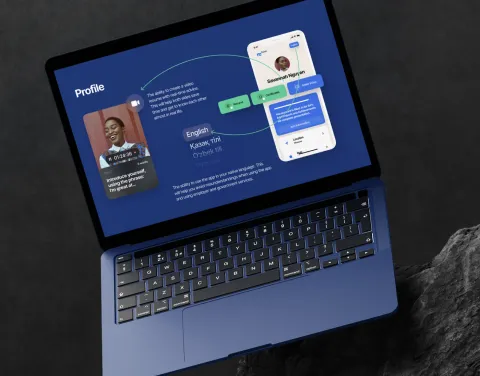
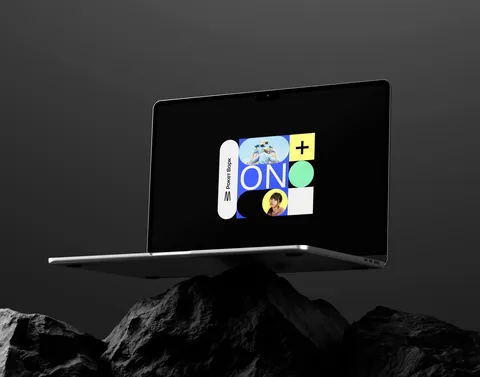
Rocket Work: новое превью; Squad Gaming: без «спроектирован»
Превью Rocket Work заменено на макбук с постером ON — оно же идёт
в карточку «Избранных проектов», в hover-кадр на главной и в OG-картинку
кейса (пути те же, поэтому подхватывается везде сразу).

Squad Gaming: «Спроектирован мобильный продукт и собран UI Kit» →
«Для мобильного продукта собран UI Kit» (и EN).

diff --git a/projects/06.html b/projects/06.html
@@ -21,7 +21,7 @@
 <section class="pcase__full pcase__head"><a class="pcase__back" href="../portfolio.html"><span class="a" aria-hidden="true">←</span> <span data-i18n="ui.all">Все проекты</span></a>
 <div class="pcase__topgrid"><h1 class="pcase__title" data-i18n="p.title">Squad Gaming</h1>
 <div class="pcase__facts"><div class="pcase__f"><div class="l" data-i18n="f.client">Клиент</div><div class="v" data-i18n="p.client">Squad</div></div><div class="pcase__f"><div class="l" data-i18n="f.year">Год</div><div class="v">2023</div></div><div class="pcase__f"><div class="l" data-i18n="f.role">Роль</div><div class="v" data-i18n="p.role">Ведущий дизайнер</div></div><div class="pcase__f pcase__f--m"><div class="l" data-i18n="p.m1.l">фреймов в брендбуке</div><div class="v" data-i18n="p.m1.v">87</div></div><div class="pcase__f pcase__f--m"><div class="l" data-i18n="p.m2.l">формата маскота</div><div class="v" data-i18n="p.m2.v">2</div></div><div class="pcase__f pcase__f--m"><div class="l" data-i18n="p.m3.l">UI Kit платформы</div><div class="v" data-i18n="p.m3.v">1</div></div></div></div></section>
-<section class="pcase__full pcase__about" data-reveal><p class="pcase__lead" data-i18n="p.lead">Визуальная вселенная Play-to-Earn-платформы — от бренда до продукта.</p><div class="pcase__prose"><p data-i18n="p.ov">Squad Gaming — из тех редких проектов, что оставляют след. Как ведущий дизайнер я участвовал во всём: от первых концепций до финальной реализации платформы.</p><p data-i18n="p.ta">Хотелось не просто оформить продукт, а создать айдентику, где каждый элемент продуман и эстетически, и по смыслу — и работает на характер всего бренда.</p><p data-i18n="p.so">Я собрал брендбук на 87 фреймов — графика, принципы, цветовая система и коммуникации. В центре — фирменный персонаж, который живёт и как вектор-логотип, и как полноценный 3D-маскот.</p><p data-i18n="p.re">Сложилась цельная вселенная бренда с правилами масштабирования интерфейсов, видеоконтентом и собственным мобильным приложением.</p></div><div class="pcase__facts3"><ul class="proof__facts"><li data-i18n="p.f1">Брендбук: графика, принципы, цветовая система, коммуникации.</li><li data-i18n="p.f2">Фирменный маскот в двух форматах: вектор-логотип и 3D.</li><li data-i18n="p.f3">Спроектирован мобильный продукт и собран UI Kit.</li><li data-i18n="p.f4">Заданы правила масштабирования интерфейсов.</li></ul></div></section>
+<section class="pcase__full pcase__about" data-reveal><p class="pcase__lead" data-i18n="p.lead">Визуальная вселенная Play-to-Earn-платформы — от бренда до продукта.</p><div class="pcase__prose"><p data-i18n="p.ov">Squad Gaming — из тех редких проектов, что оставляют след. Как ведущий дизайнер я участвовал во всём: от первых концепций до финальной реализации платформы.</p><p data-i18n="p.ta">Хотелось не просто оформить продукт, а создать айдентику, где каждый элемент продуман и эстетически, и по смыслу — и работает на характер всего бренда.</p><p data-i18n="p.so">Я собрал брендбук на 87 фреймов — графика, принципы, цветовая система и коммуникации. В центре — фирменный персонаж, который живёт и как вектор-логотип, и как полноценный 3D-маскот.</p><p data-i18n="p.re">Сложилась цельная вселенная бренда с правилами масштабирования интерфейсов, видеоконтентом и собственным мобильным приложением.</p></div><div class="pcase__facts3"><ul class="proof__facts"><li data-i18n="p.f1">Брендбук: графика, принципы, цветовая система, коммуникации.</li><li data-i18n="p.f2">Фирменный маскот в двух форматах: вектор-логотип и 3D.</li><li data-i18n="p.f3">Для мобильного продукта собран UI Kit.</li><li data-i18n="p.f4">Заданы правила масштабирования интерфейсов.</li></ul></div></section>
 <section class="pcase__full pcase__media">
     <img src="../assets/img/squad-1.webp" srcset="../assets/img/squad-1-480.webp 480w, ../assets/img/squad-1-960.webp 960w, ../assets/img/squad-1-1440.webp 1440w, ../assets/img/squad-1.webp 1920w" sizes="100vw" alt="Squad Gaming — гайд по фирменному стилю: логотип, персонажи, палитра, графика" width="1920" height="940" decoding="async" loading="lazy">
     <div class="row"><img src="../assets/img/squad-2.webp" srcset="../assets/img/squad-2-480.webp 480w, ../assets/img/squad-2.webp 940w" sizes="(max-width: 860px) 100vw, 48vw" alt="Squad Gaming — экран приложения: ставка в аукционе с 3D-персонажем" width="940" height="940" decoding="async" loading="lazy"><img src="../assets/img/squad-3.webp" srcset="../assets/img/squad-3-480.webp 480w, ../assets/img/squad-3.webp 940w" sizes="(max-width: 860px) 100vw, 48vw" alt="Squad Gaming — яркая градиентная 3D-абстракция бренда" width="940" height="940" decoding="async" loading="lazy"></div>
@@ -31,4 +31,4 @@
 <a class="next-proj" href="07.html"><div class="pcase__full"><span class="eyebrow"><span data-i18n="ui.next">Следующий проект</span> · 07</span><div class="nt"><span data-i18n="ui.nextTitle">Маркетинг-кит</span></div></div></a>
 </main>
 <footer class="foot"><div data-i18n="ft.copy">© 2026 Сергей Лукин</div><button class="ft-top" type="button" id="footTop" data-i18n="ft.top">Наверх <span class="arr">↑</span></button><div data-i18n="ft.tag">Портфолио</div></footer>
-<script id="i18n-data" type="application/json">{"ru":{"skip":"Перейти к&nbsp;содержанию","meta.title":"Squad Gaming · Сергей Лукин","meta.description":"Визуальная вселенная Play-to-Earn-платформы — от бренда до продукта.","p.m1.v":"87","p.m1.l":"фреймов в брендбуке","p.m2.v":"2","p.m2.l":"формата маскота","p.m3.v":"1","p.m3.l":"UI Kit платформы","nav.brand":"Сергей Лукин <b>·</b> <span>Head of Design</span>","nav.manifesto":"Манифест","nav.pf":"Портфолио","nav.about":"Обо мне","ft.copy":"© 2026 Сергей Лукин","ft.top":"Наверх <span class=\"arr\">↑</span>","ft.tag":"Портфолио","f.client":"Клиент","f.year":"Год","f.role":"Роль","ui.all":"Все проекты","ui.next":"Следующий проект","p.title":"Squad Gaming","p.lead":"Визуальная вселенная Play-to-Earn-платформы — от бренда до продукта.","p.ov":"Squad Gaming — из тех редких проектов, что оставляют след. Как ведущий дизайнер я участвовал во всём: от первых концепций до финальной реализации платформы.","p.ta":"Хотелось не просто оформить продукт, а создать айдентику, где каждый элемент продуман и эстетически, и по смыслу — и работает на характер всего бренда.","p.so":"Я собрал брендбук на 87 фреймов — графика, принципы, цветовая система и коммуникации. В центре — фирменный персонаж, который живёт и как вектор-логотип, и как полноценный 3D-маскот.","p.re":"Сложилась цельная вселенная бренда с правилами масштабирования интерфейсов, видеоконтентом и собственным мобильным приложением.","p.client":"Squad","p.role":"Ведущий дизайнер","ui.nextTitle":"Маркетинг-кит","p.f1":"Брендбук: графика, принципы, цветовая система, коммуникации.","p.f2":"Фирменный маскот в двух форматах: вектор-логотип и 3D.","p.f3":"Спроектирован мобильный продукт и собран UI Kit.","p.f4":"Заданы правила масштабирования интерфейсов."},"en":{"skip":"Skip to content","meta.title":"Squad Gaming · Sergey Lukin","meta.description":"The visual universe of a play-to-earn platform — from brand to product.","p.m1.v":"87","p.m1.l":"frames in the brandbook","p.m2.v":"2","p.m2.l":"mascot formats","p.m3.v":"1","p.m3.l":"platform UI Kit","nav.brand":"Sergey Lukin <b>·</b> <span>Head of Design</span>","nav.manifesto":"Manifesto","nav.pf":"Portfolio","nav.about":"About","ft.copy":"© 2026 Sergey Lukin","ft.top":"Top <span class=\"arr\">↑</span>","ft.tag":"Portfolio","f.client":"Client","f.year":"Year","f.role":"Role","ui.all":"All projects","ui.next":"Next project","p.title":"Squad Gaming","p.lead":"The visual universe of a Play-to-Earn platform — from brand to product.","p.ov":"Squad Gaming is one of those rare projects that leave a mark. As lead designer I was involved in everything — from the first concepts to the platform's final build.","p.ta":"I didn't just want to dress up the product, but to create an identity where every element is considered both aesthetically and in meaning — working for the character of the whole brand.","p.so":"I built an 87-frame brandbook — graphics, principles, colour system and communications. At its centre is a mascot that lives both as a vector logo and as a full 3D character.","p.re":"The result is a coherent brand universe with interface-scaling rules, video content and its own mobile app.","p.client":"Squad","p.role":"Lead designer","ui.nextTitle":"Marketing Kit","p.f1":"Brandbook: graphics, principles, colour system, communications.","p.f2":"A mascot in two forms: vector logo and 3D.","p.f3":"Designed a mobile product and assembled a UI Kit.","p.f4":"Defined rules for scaling the interfaces."}}</script><script defer src="../assets/lenis.min.js?v=188"></script><script defer src="../assets/smooth-scroll.min.js?v=188"></script><script defer src="../assets/i18n.min.js?v=188"></script><script defer src="../assets/site.min.js?v=188"></script></body></html>
+<script id="i18n-data" type="application/json">{"ru":{"skip":"Перейти к&nbsp;содержанию","meta.title":"Squad Gaming · Сергей Лукин","meta.description":"Визуальная вселенная Play-to-Earn-платформы — от бренда до продукта.","p.m1.v":"87","p.m1.l":"фреймов в брендбуке","p.m2.v":"2","p.m2.l":"формата маскота","p.m3.v":"1","p.m3.l":"UI Kit платформы","nav.brand":"Сергей Лукин <b>·</b> <span>Head of Design</span>","nav.manifesto":"Манифест","nav.pf":"Портфолио","nav.about":"Обо мне","ft.copy":"© 2026 Сергей Лукин","ft.top":"Наверх <span class=\"arr\">↑</span>","ft.tag":"Портфолио","f.client":"Клиент","f.year":"Год","f.role":"Роль","ui.all":"Все проекты","ui.next":"Следующий проект","p.title":"Squad Gaming","p.lead":"Визуальная вселенная Play-to-Earn-платформы — от бренда до продукта.","p.ov":"Squad Gaming — из тех редких проектов, что оставляют след. Как ведущий дизайнер я участвовал во всём: от первых концепций до финальной реализации платформы.","p.ta":"Хотелось не просто оформить продукт, а создать айдентику, где каждый элемент продуман и эстетически, и по смыслу — и работает на характер всего бренда.","p.so":"Я собрал брендбук на 87 фреймов — графика, принципы, цветовая система и коммуникации. В центре — фирменный персонаж, который живёт и как вектор-логотип, и как полноценный 3D-маскот.","p.re":"Сложилась цельная вселенная бренда с правилами масштабирования интерфейсов, видеоконтентом и собственным мобильным приложением.","p.client":"Squad","p.role":"Ведущий дизайнер","ui.nextTitle":"Маркетинг-кит","p.f1":"Брендбук: графика, принципы, цветовая система, коммуникации.","p.f2":"Фирменный маскот в двух форматах: вектор-логотип и 3D.","p.f3":"Для мобильного продукта собран UI Kit.","p.f4":"Заданы правила масштабирования интерфейсов."},"en":{"skip":"Skip to content","meta.title":"Squad Gaming · Sergey Lukin","meta.description":"The visual universe of a play-to-earn platform — from brand to product.","p.m1.v":"87","p.m1.l":"frames in the brandbook","p.m2.v":"2","p.m2.l":"mascot formats","p.m3.v":"1","p.m3.l":"platform UI Kit","nav.brand":"Sergey Lukin <b>·</b> <span>Head of Design</span>","nav.manifesto":"Manifesto","nav.pf":"Portfolio","nav.about":"About","ft.copy":"© 2026 Sergey Lukin","ft.top":"Top <span class=\"arr\">↑</span>","ft.tag":"Portfolio","f.client":"Client","f.year":"Year","f.role":"Role","ui.all":"All projects","ui.next":"Next project","p.title":"Squad Gaming","p.lead":"The visual universe of a Play-to-Earn platform — from brand to product.","p.ov":"Squad Gaming is one of those rare projects that leave a mark. As lead designer I was involved in everything — from the first concepts to the platform's final build.","p.ta":"I didn't just want to dress up the product, but to create an identity where every element is considered both aesthetically and in meaning — working for the character of the whole brand.","p.so":"I built an 87-frame brandbook — graphics, principles, colour system and communications. At its centre is a mascot that lives both as a vector logo and as a full 3D character.","p.re":"The result is a coherent brand universe with interface-scaling rules, video content and its own mobile app.","p.client":"Squad","p.role":"Lead designer","ui.nextTitle":"Marketing Kit","p.f1":"Brandbook: graphics, principles, colour system, communications.","p.f2":"A mascot in two forms: vector logo and 3D.","p.f3":"A UI Kit assembled for the mobile product.","p.f4":"Defined rules for scaling the interfaces."}}</script><script defer src="../assets/lenis.min.js?v=188"></script><script defer src="../assets/smooth-scroll.min.js?v=188"></script><script defer src="../assets/i18n.min.js?v=188"></script><script defer src="../assets/site.min.js?v=188"></script></body></html>

diff --git a/en/projects/06.html b/en/projects/06.html
@@ -20,7 +20,7 @@
 <section class="pcase__full pcase__head"><a class="pcase__back" href="../portfolio.html"><span class="a" aria-hidden="true">←</span> <span data-i18n="ui.all">All projects</span></a>
 <div class="pcase__topgrid"><h1 class="pcase__title" data-i18n="p.title">Squad Gaming</h1>
 <div class="pcase__facts"><div class="pcase__f"><div class="l" data-i18n="f.client">Client</div><div class="v" data-i18n="p.client">Squad</div></div><div class="pcase__f"><div class="l" data-i18n="f.year">Year</div><div class="v">2023</div></div><div class="pcase__f"><div class="l" data-i18n="f.role">Role</div><div class="v" data-i18n="p.role">Lead designer</div></div><div class="pcase__f pcase__f--m"><div class="l" data-i18n="p.m1.l">frames in the brandbook</div><div class="v" data-i18n="p.m1.v">87</div></div><div class="pcase__f pcase__f--m"><div class="l" data-i18n="p.m2.l">mascot formats</div><div class="v" data-i18n="p.m2.v">2</div></div><div class="pcase__f pcase__f--m"><div class="l" data-i18n="p.m3.l">platform UI Kit</div><div class="v" data-i18n="p.m3.v">1</div></div></div></div></section>
-<section class="pcase__full pcase__about" data-reveal=""><p class="pcase__lead" data-i18n="p.lead">The visual universe of a Play-to-Earn platform — from brand to product.</p><div class="pcase__prose"><p data-i18n="p.ov">Squad Gaming is one of those rare projects that leave a mark. As lead designer I was involved in everything — from the first concepts to the platform's final build.</p><p data-i18n="p.ta">I didn't just want to dress up the product, but to create an identity where every element is considered both aesthetically and in meaning — working for the character of the whole brand.</p><p data-i18n="p.so">I built an 87-frame brandbook — graphics, principles, colour system and communications. At its centre is a mascot that lives both as a vector logo and as a full 3D character.</p><p data-i18n="p.re">The result is a coherent brand universe with interface-scaling rules, video content and its own mobile app.</p></div><div class="pcase__facts3"><ul class="proof__facts"><li data-i18n="p.f1">Brandbook: graphics, principles, colour system, communications.</li><li data-i18n="p.f2">A mascot in two forms: vector logo and 3D.</li><li data-i18n="p.f3">Designed a mobile product and assembled a UI Kit.</li><li data-i18n="p.f4">Defined rules for scaling the interfaces.</li></ul></div></section>
+<section class="pcase__full pcase__about" data-reveal=""><p class="pcase__lead" data-i18n="p.lead">The visual universe of a Play-to-Earn platform — from brand to product.</p><div class="pcase__prose"><p data-i18n="p.ov">Squad Gaming is one of those rare projects that leave a mark. As lead designer I was involved in everything — from the first concepts to the platform's final build.</p><p data-i18n="p.ta">I didn't just want to dress up the product, but to create an identity where every element is considered both aesthetically and in meaning — working for the character of the whole brand.</p><p data-i18n="p.so">I built an 87-frame brandbook — graphics, principles, colour system and communications. At its centre is a mascot that lives both as a vector logo and as a full 3D character.</p><p data-i18n="p.re">The result is a coherent brand universe with interface-scaling rules, video content and its own mobile app.</p></div><div class="pcase__facts3"><ul class="proof__facts"><li data-i18n="p.f1">Brandbook: graphics, principles, colour system, communications.</li><li data-i18n="p.f2">A mascot in two forms: vector logo and 3D.</li><li data-i18n="p.f3">A UI Kit assembled for the mobile product.</li><li data-i18n="p.f4">Defined rules for scaling the interfaces.</li></ul></div></section>
 <section class="pcase__full pcase__media">
     <img src="../../assets/img/squad-1.webp" srcset="../../assets/img/squad-1-480.webp 480w, ../../assets/img/squad-1-960.webp 960w, ../../assets/img/squad-1-1440.webp 1440w, ../../assets/img/squad-1.webp 1920w" sizes="100vw" alt="Squad Gaming — гайд по фирменному стилю: логотип, персонажи, палитра, графика" width="1920" height="940" decoding="async" loading="lazy">
     <div class="row"><img src="../../assets/img/squad-2.webp" srcset="../../assets/img/squad-2-480.webp 480w, ../../assets/img/squad-2.webp 940w" sizes="(max-width: 860px) 100vw, 48vw" alt="Squad Gaming — экран приложения: ставка в аукционе с 3D-персонажем" width="940" height="940" decoding="async" loading="lazy"><img src="../../assets/img/squad-3.webp" srcset="../../assets/img/squad-3-480.webp 480w, ../../assets/img/squad-3.webp 940w" sizes="(max-width: 860px) 100vw, 48vw" alt="Squad Gaming — яркая градиентная 3D-абстракция бренда" width="940" height="940" decoding="async" loading="lazy"></div>
@@ -30,4 +30,4 @@
 <a class="next-proj" href="07.html"><div class="pcase__full"><span class="eyebrow"><span data-i18n="ui.next">Next project</span> · 07</span><div class="nt"><span data-i18n="ui.nextTitle">Marketing Kit</span></div></div></a>
 </main>
 <footer class="foot"><div data-i18n="ft.copy">© 2026 Sergey Lukin</div><button class="ft-top" type="button" id="footTop" data-i18n="ft.top">Top <span class="arr">↑</span></button><div data-i18n="ft.tag">Portfolio</div></footer>
-<script id="i18n-data" type="application/json">{"ru":{"skip":"Перейти к&nbsp;содержанию","meta.title":"Squad Gaming · Сергей Лукин","meta.description":"Визуальная вселенная Play-to-Earn-платформы — от бренда до продукта.","p.m1.v":"87","p.m1.l":"фреймов в брендбуке","p.m2.v":"2","p.m2.l":"формата маскота","p.m3.v":"1","p.m3.l":"UI Kit платформы","nav.brand":"Сергей Лукин <b>·</b> <span>Head of Design</span>","nav.manifesto":"Манифест","nav.pf":"Портфолио","nav.about":"Обо мне","ft.copy":"© 2026 Сергей Лукин","ft.top":"Наверх <span class=\"arr\">↑</span>","ft.tag":"Портфолио","f.client":"Клиент","f.year":"Год","f.role":"Роль","ui.all":"Все проекты","ui.next":"Следующий проект","p.title":"Squad Gaming","p.lead":"Визуальная вселенная Play-to-Earn-платформы — от бренда до продукта.","p.ov":"Squad Gaming — из тех редких проектов, что оставляют след. Как ведущий дизайнер я участвовал во всём: от первых концепций до финальной реализации платформы.","p.ta":"Хотелось не просто оформить продукт, а создать айдентику, где каждый элемент продуман и эстетически, и по смыслу — и работает на характер всего бренда.","p.so":"Я собрал брендбук на 87 фреймов — графика, принципы, цветовая система и коммуникации. В центре — фирменный персонаж, который живёт и как вектор-логотип, и как полноценный 3D-маскот.","p.re":"Сложилась цельная вселенная бренда с правилами масштабирования интерфейсов, видеоконтентом и собственным мобильным приложением.","p.client":"Squad","p.role":"Ведущий дизайнер","ui.nextTitle":"Маркетинг-кит","p.f1":"Брендбук: графика, принципы, цветовая система, коммуникации.","p.f2":"Фирменный маскот в двух форматах: вектор-логотип и 3D.","p.f3":"Спроектирован мобильный продукт и собран UI Kit.","p.f4":"Заданы правила масштабирования интерфейсов."},"en":{"skip":"Skip to content","meta.title":"Squad Gaming · Sergey Lukin","meta.description":"The visual universe of a play-to-earn platform — from brand to product.","p.m1.v":"87","p.m1.l":"frames in the brandbook","p.m2.v":"2","p.m2.l":"mascot formats","p.m3.v":"1","p.m3.l":"platform UI Kit","nav.brand":"Sergey Lukin <b>·</b> <span>Head of Design</span>","nav.manifesto":"Manifesto","nav.pf":"Portfolio","nav.about":"About","ft.copy":"© 2026 Sergey Lukin","ft.top":"Top <span class=\"arr\">↑</span>","ft.tag":"Portfolio","f.client":"Client","f.year":"Year","f.role":"Role","ui.all":"All projects","ui.next":"Next project","p.title":"Squad Gaming","p.lead":"The visual universe of a Play-to-Earn platform — from brand to product.","p.ov":"Squad Gaming is one of those rare projects that leave a mark. As lead designer I was involved in everything — from the first concepts to the platform's final build.","p.ta":"I didn't just want to dress up the product, but to create an identity where every element is considered both aesthetically and in meaning — working for the character of the whole brand.","p.so":"I built an 87-frame brandbook — graphics, principles, colour system and communications. At its centre is a mascot that lives both as a vector logo and as a full 3D character.","p.re":"The result is a coherent brand universe with interface-scaling rules, video content and its own mobile app.","p.client":"Squad","p.role":"Lead designer","ui.nextTitle":"Marketing Kit","p.f1":"Brandbook: graphics, principles, colour system, communications.","p.f2":"A mascot in two forms: vector logo and 3D.","p.f3":"Designed a mobile product and assembled a UI Kit.","p.f4":"Defined rules for scaling the interfaces."}}</script><script defer="" src="../../assets/lenis.min.js?v=188"></script><script defer="" src="../../assets/smooth-scroll.min.js?v=188"></script><script defer="" src="../../assets/i18n.min.js?v=188"></script><script defer="" src="../../assets/site.min.js?v=188"></script></body></html>
+<script id="i18n-data" type="application/json">{"ru":{"skip":"Перейти к&nbsp;содержанию","meta.title":"Squad Gaming · Сергей Лукин","meta.description":"Визуальная вселенная Play-to-Earn-платформы — от бренда до продукта.","p.m1.v":"87","p.m1.l":"фреймов в брендбуке","p.m2.v":"2","p.m2.l":"формата маскота","p.m3.v":"1","p.m3.l":"UI Kit платформы","nav.brand":"Сергей Лукин <b>·</b> <span>Head of Design</span>","nav.manifesto":"Манифест","nav.pf":"Портфолио","nav.about":"Обо мне","ft.copy":"© 2026 Сергей Лукин","ft.top":"Наверх <span class=\"arr\">↑</span>","ft.tag":"Портфолио","f.client":"Клиент","f.year":"Год","f.role":"Роль","ui.all":"Все проекты","ui.next":"Следующий проект","p.title":"Squad Gaming","p.lead":"Визуальная вселенная Play-to-Earn-платформы — от бренда до продукта.","p.ov":"Squad Gaming — из тех редких проектов, что оставляют след. Как ведущий дизайнер я участвовал во всём: от первых концепций до финальной реализации платформы.","p.ta":"Хотелось не просто оформить продукт, а создать айдентику, где каждый элемент продуман и эстетически, и по смыслу — и работает на характер всего бренда.","p.so":"Я собрал брендбук на 87 фреймов — графика, принципы, цветовая система и коммуникации. В центре — фирменный персонаж, который живёт и как вектор-логотип, и как полноценный 3D-маскот.","p.re":"Сложилась цельная вселенная бренда с правилами масштабирования интерфейсов, видеоконтентом и собственным мобильным приложением.","p.client":"Squad","p.role":"Ведущий дизайнер","ui.nextTitle":"Маркетинг-кит","p.f1":"Брендбук: графика, принципы, цветовая система, коммуникации.","p.f2":"Фирменный маскот в двух форматах: вектор-логотип и 3D.","p.f3":"Для мобильного продукта собран UI Kit.","p.f4":"Заданы правила масштабирования интерфейсов."},"en":{"skip":"Skip to content","meta.title":"Squad Gaming · Sergey Lukin","meta.description":"The visual universe of a play-to-earn platform — from brand to product.","p.m1.v":"87","p.m1.l":"frames in the brandbook","p.m2.v":"2","p.m2.l":"mascot formats","p.m3.v":"1","p.m3.l":"platform UI Kit","nav.brand":"Sergey Lukin <b>·</b> <span>Head of Design</span>","nav.manifesto":"Manifesto","nav.pf":"Portfolio","nav.about":"About","ft.copy":"© 2026 Sergey Lukin","ft.top":"Top <span class=\"arr\">↑</span>","ft.tag":"Portfolio","f.client":"Client","f.year":"Year","f.role":"Role","ui.all":"All projects","ui.next":"Next project","p.title":"Squad Gaming","p.lead":"The visual universe of a Play-to-Earn platform — from brand to product.","p.ov":"Squad Gaming is one of those rare projects that leave a mark. As lead designer I was involved in everything — from the first concepts to the platform's final build.","p.ta":"I didn't just want to dress up the product, but to create an identity where every element is considered both aesthetically and in meaning — working for the character of the whole brand.","p.so":"I built an 87-frame brandbook — graphics, principles, colour system and communications. At its centre is a mascot that lives both as a vector logo and as a full 3D character.","p.re":"The result is a coherent brand universe with interface-scaling rules, video content and its own mobile app.","p.client":"Squad","p.role":"Lead designer","ui.nextTitle":"Marketing Kit","p.f1":"Brandbook: graphics, principles, colour system, communications.","p.f2":"A mascot in two forms: vector logo and 3D.","p.f3":"A UI Kit assembled for the mobile product.","p.f4":"Defined rules for scaling the interfaces."}}</script><script defer="" src="../../assets/lenis.min.js?v=188"></script><script defer="" src="../../assets/smooth-scroll.min.js?v=188"></script><script defer="" src="../../assets/i18n.min.js?v=188"></script><script defer="" src="../../assets/site.min.js?v=188"></script></body></html>
